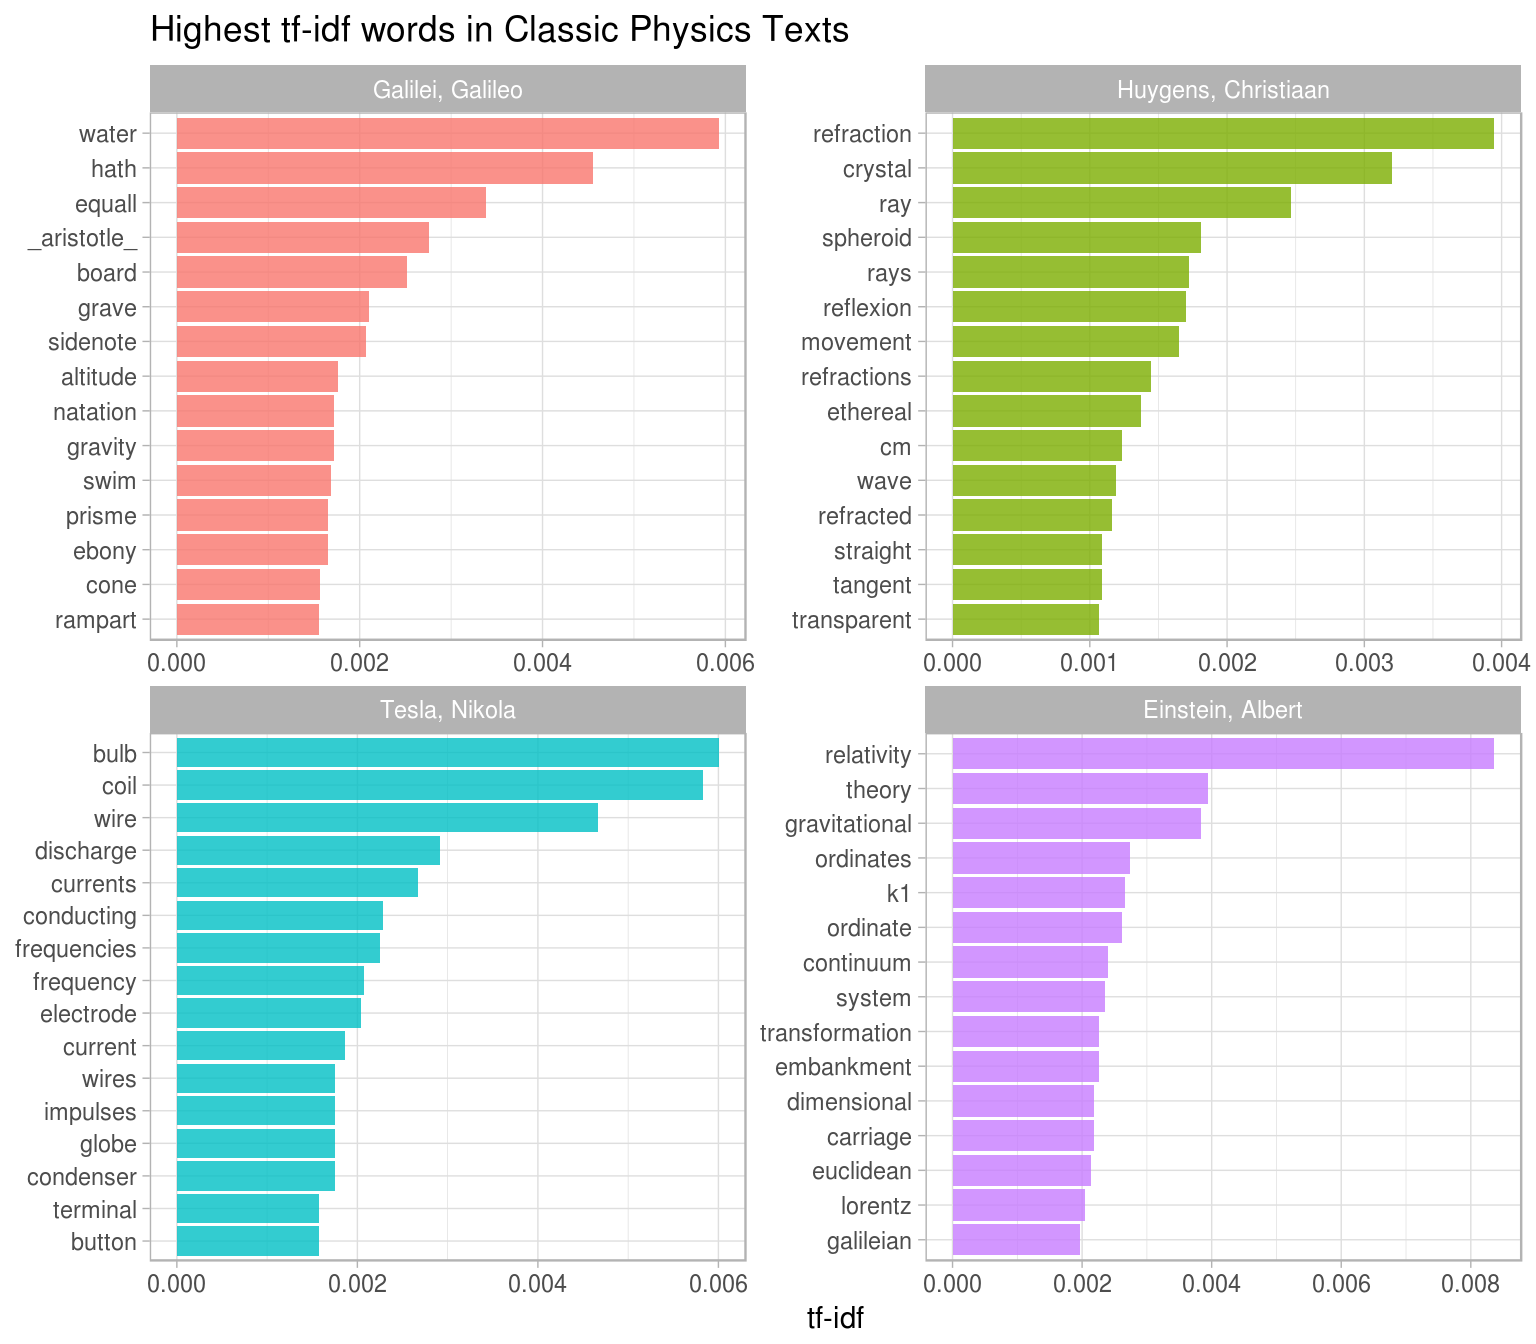
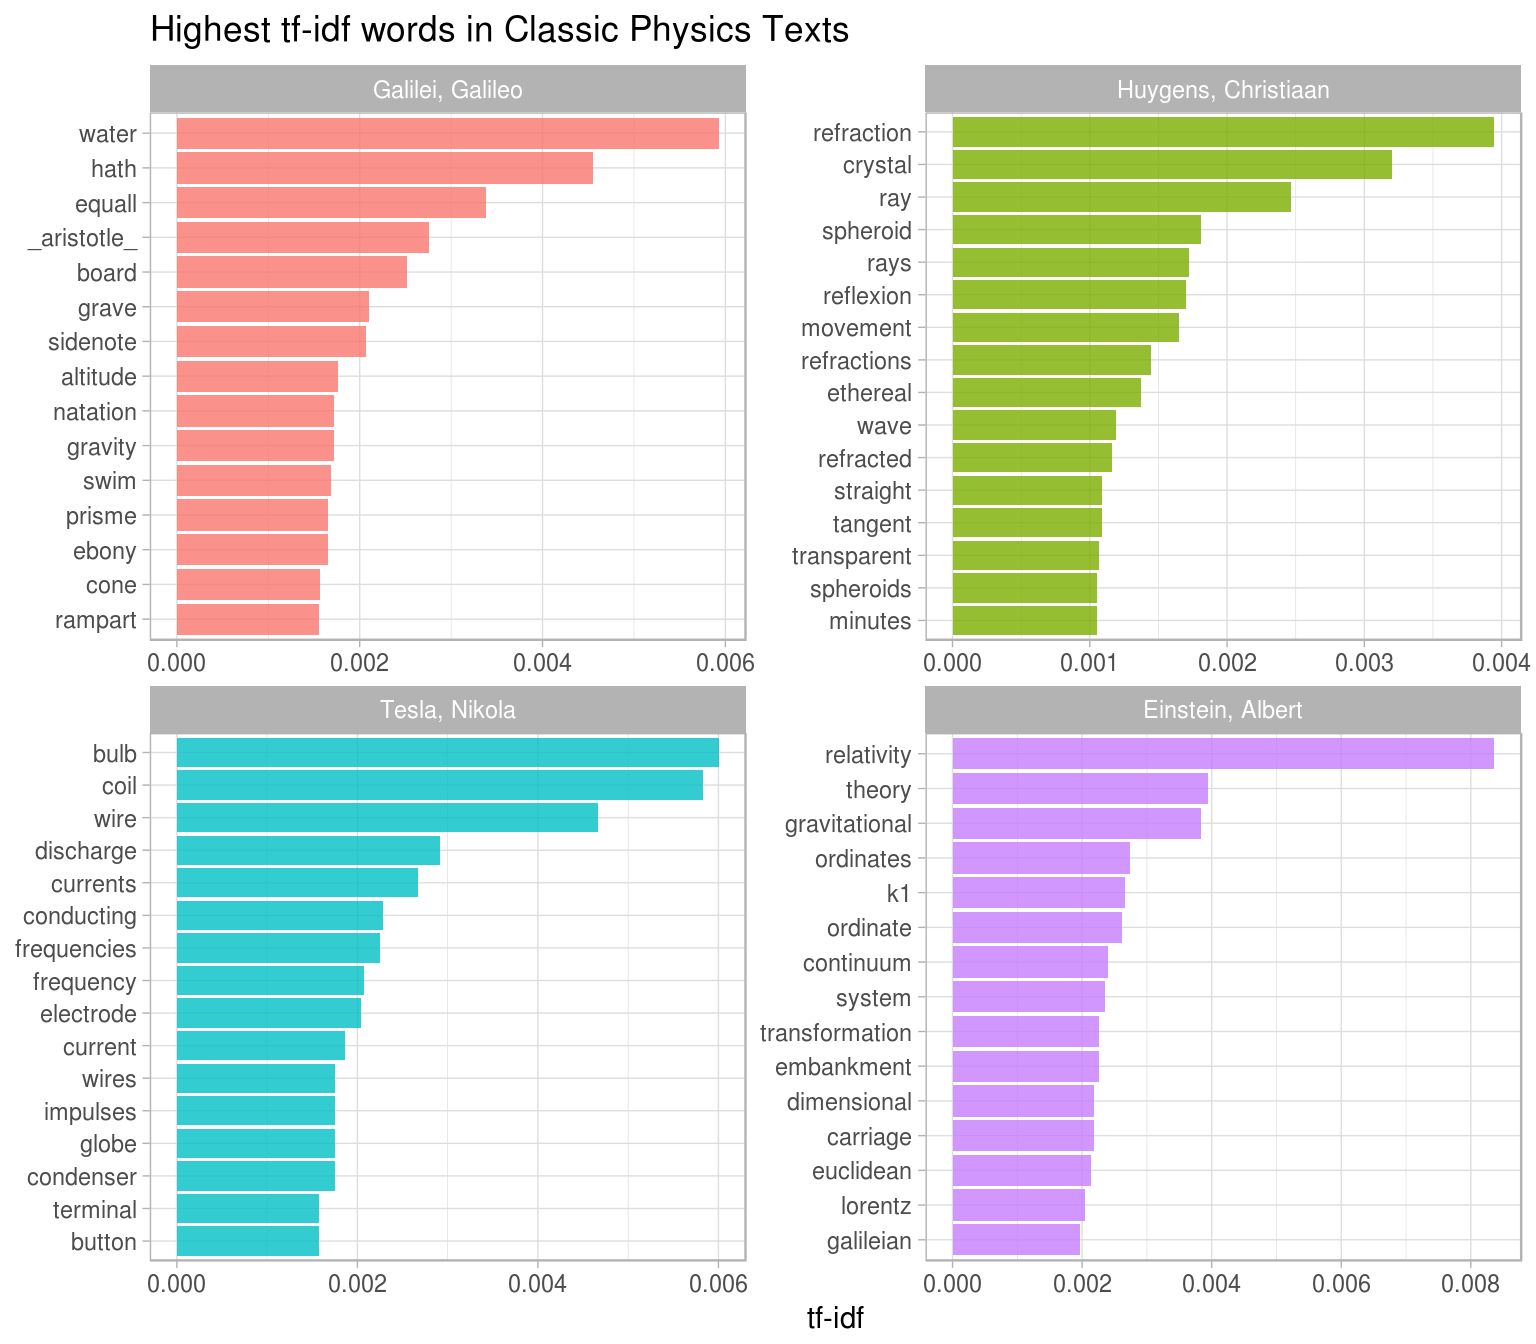
Updating book (132)

Changed region(s): [[0.625, 0.125, 0.9062, 0.4688], [0.5, 0.0938, 0.5938, 0.4688]]

diff --git a/tfidf.html b/tfidf.html
@@ -25,7 +25,7 @@
 
 <meta name="author" content="Julia Silge and David Robinson">
 
-<meta name="date" content="2016-10-30">
+<meta name="date" content="2016-10-31">
 
 <script type="text/x-mathjax-config">
 MathJax.Hub.Config({
@@ -373,26 +373,27 @@ plot_physics &lt;-<span class="st"> </span>physics_words %&gt;%
 <span class="st">  </span><span class="kw">coord_flip</span>()</code></pre></div>
 <p><img src="04-tf-idf_files/figure-html/physics_separate-1.png" width="768" /></p>
 <p>Very interesting indeed. One thing we see here is “gif” in the Einstein text?!</p>
-<div class="sourceCode"><pre class="sourceCode r"><code class="sourceCode r"><span class="kw">grep</span>(<span class="st">&quot;gif&quot;</span>, physics$text, <span class="dt">value =</span> <span class="ot">TRUE</span>)[<span class="dv">1</span>:<span class="dv">10</span>]</code></pre></div>
-<pre><code>##  [1] &quot;                       Fig. 01: file fig01.gif&quot;
-##  [2] &quot;                         eq. 1: file eq01.gif&quot; 
-##  [3] &quot;                         eq. 2: file eq02.gif&quot; 
-##  [4] &quot;                         eq. 3: file eq03.gif&quot; 
-##  [5] &quot;                         eq. 4: file eq04.gif&quot; 
-##  [6] &quot;                       eq. 05a: file eq05a.gif&quot;
-##  [7] &quot;                       eq. 05b: file eq05b.gif&quot;
-##  [8] &quot;                        eq. 07: file eq07.gif&quot; 
-##  [9] &quot;                        eq. 08: file eq08.gif&quot; 
-## [10] &quot;                        eq. 09: file eq09.gif&quot;</code></pre>
-<p>Some cleaning up of the text might be in order. The same thing is true for “eq”, obviously here. “K1” is the name of a coordinate system for Einstein:</p>
+<div class="sourceCode"><pre class="sourceCode r"><code class="sourceCode r"><span class="kw">grep</span>(<span class="st">&quot;eq</span><span class="ch">\\</span><span class="st">.&quot;</span>, physics$text, <span class="dt">value =</span> <span class="ot">TRUE</span>)[<span class="dv">1</span>:<span class="dv">10</span>]</code></pre></div>
+<pre><code>##  [1] &quot;                         eq. 1: file eq01.gif&quot;                  
+##  [2] &quot;                         eq. 2: file eq02.gif&quot;                  
+##  [3] &quot;                         eq. 3: file eq03.gif&quot;                  
+##  [4] &quot;                         eq. 4: file eq04.gif&quot;                  
+##  [5] &quot;                       eq. 05a: file eq05a.gif&quot;                 
+##  [6] &quot;                       eq. 05b: file eq05b.gif&quot;                 
+##  [7] &quot;the distance between the points being eq. 06 .&quot;                 
+##  [8] &quot;direction of its length with a velocity v is eq. 06 of a metre.&quot;
+##  [9] &quot;velocity v=c we should have eq. 06a ,&quot;                          
+## [10] &quot;the rod as judged from K1 would have been eq. 06 ;&quot;</code></pre>
+<p>Some cleaning up of the text might be in order. “K1” is the name of a coordinate system for Einstein:</p>
 <div class="sourceCode"><pre class="sourceCode r"><code class="sourceCode r"><span class="kw">grep</span>(<span class="st">&quot;K1&quot;</span>, physics$text, <span class="dt">value =</span> <span class="ot">TRUE</span>)[<span class="dv">1</span>]</code></pre></div>
 <pre><code>## [1] &quot;to a second co-ordinate system K1 provided that the latter is&quot;</code></pre>
-<p>Also notice that in this line we have “co-ordinate”, which explains why there are separate “co” and “ordinate” items in the high tf-idf words for the Einstein text. “AB”, “RC”, and so forth are names of rays, circles, angles, and so forth for Huygens.</p>
+<p>Maybe it makes sense to keep this one. Also notice that in this line we have “co-ordinate”, which explains why there are separate “co” and “ordinate” items in the high tf-idf words for the Einstein text.</p>
+<p>“AB”, “RC”, and so forth are names of rays, circles, angles, and so forth for Huygens.</p>
 <div class="sourceCode"><pre class="sourceCode r"><code class="sourceCode r"><span class="kw">grep</span>(<span class="st">&quot;AK&quot;</span>, physics$text, <span class="dt">value =</span> <span class="ot">TRUE</span>)[<span class="dv">1</span>]</code></pre></div>
 <pre><code>## [1] &quot;Now let us assume that the ray has come from A to C along AK, KC; the&quot;</code></pre>
 <p>Let’s remove some of these less meaningful words to make a better, more meaningful plot. Notice that we make a custom list of stop words and use <code>anti_join</code> to remove them.</p>
-<div class="sourceCode"><pre class="sourceCode r"><code class="sourceCode r">mystopwords &lt;-<span class="st"> </span><span class="kw">data_frame</span>(<span class="dt">word =</span> <span class="kw">c</span>(<span class="st">&quot;gif&quot;</span>, <span class="st">&quot;eq&quot;</span>, <span class="st">&quot;co&quot;</span>, <span class="st">&quot;rc&quot;</span>, <span class="st">&quot;ac&quot;</span>, <span class="st">&quot;ak&quot;</span>, <span class="st">&quot;bn&quot;</span>, 
-                                   <span class="st">&quot;fig&quot;</span>, <span class="st">&quot;file&quot;</span>, <span class="st">&quot;cg&quot;</span>, <span class="st">&quot;cb&quot;</span>))
+<div class="sourceCode"><pre class="sourceCode r"><code class="sourceCode r">mystopwords &lt;-<span class="st"> </span><span class="kw">data_frame</span>(<span class="dt">word =</span> <span class="kw">c</span>(<span class="st">&quot;eq&quot;</span>, <span class="st">&quot;co&quot;</span>, <span class="st">&quot;rc&quot;</span>, <span class="st">&quot;ac&quot;</span>, <span class="st">&quot;ak&quot;</span>, <span class="st">&quot;bn&quot;</span>, 
+                                   <span class="st">&quot;fig&quot;</span>, <span class="st">&quot;file&quot;</span>, <span class="st">&quot;cg&quot;</span>, <span class="st">&quot;cb&quot;</span>, <span class="st">&quot;cm&quot;</span>))
 physics_words &lt;-<span class="st"> </span><span class="kw">anti_join</span>(physics_words, mystopwords, <span class="dt">by =</span> <span class="st">&quot;word&quot;</span>)
 plot_physics &lt;-<span class="st"> </span>physics_words %&gt;%
 <span class="st">  </span><span class="kw">arrange</span>(<span class="kw">desc</span>(tf_idf)) %&gt;%

diff --git a/index.html b/index.html
@@ -25,7 +25,7 @@
 
 <meta name="author" content="Julia Silge and David Robinson">
 
-<meta name="date" content="2016-10-30">
+<meta name="date" content="2016-10-31">
 
 <script type="text/x-mathjax-config">
 MathJax.Hub.Config({
@@ -202,7 +202,7 @@ code > span.in { color: #60a0b0; font-weight: bold; font-style: italic; } /* Inf
 <div id="header">
 <h1 class="title">Tidy Text Mining with R</h1>
 <h4 class="author"><em>Julia Silge and David Robinson</em></h4>
-<h4 class="date"><em>2016-10-30</em></h4>
+<h4 class="date"><em>2016-10-31</em></h4>
 </div>
 <div id="welcome-to-tidy-text-mining-with-r" class="section level1 unnumbered">
 <h1>Welcome to Tidy Text Mining with R</h1>

diff --git a/dtm.html b/dtm.html
@@ -25,7 +25,7 @@
 
 <meta name="author" content="Julia Silge and David Robinson">
 
-<meta name="date" content="2016-10-30">
+<meta name="date" content="2016-10-31">
 
 <script type="text/x-mathjax-config">
 MathJax.Hub.Config({

diff --git a/intro.html b/intro.html
@@ -25,7 +25,7 @@
 
 <meta name="author" content="Julia Silge and David Robinson">
 
-<meta name="date" content="2016-10-30">
+<meta name="date" content="2016-10-31">
 
 <script type="text/x-mathjax-config">
 MathJax.Hub.Config({

diff --git a/nasa.html b/nasa.html
@@ -25,7 +25,7 @@
 
 <meta name="author" content="Julia Silge and David Robinson">
 
-<meta name="date" content="2016-10-30">
+<meta name="date" content="2016-10-31">
 
 <script type="text/x-mathjax-config">
 MathJax.Hub.Config({

diff --git a/ngrams.html b/ngrams.html
@@ -25,7 +25,7 @@
 
 <meta name="author" content="Julia Silge and David Robinson">
 
-<meta name="date" content="2016-10-30">
+<meta name="date" content="2016-10-31">
 
 <script type="text/x-mathjax-config">
 MathJax.Hub.Config({

diff --git a/references.html b/references.html
@@ -25,7 +25,7 @@
 
 <meta name="author" content="Julia Silge and David Robinson">
 
-<meta name="date" content="2016-10-30">
+<meta name="date" content="2016-10-31">
 
 <script type="text/x-mathjax-config">
 MathJax.Hub.Config({

diff --git a/sentiment.html b/sentiment.html
@@ -25,7 +25,7 @@
 
 <meta name="author" content="Julia Silge and David Robinson">
 
-<meta name="date" content="2016-10-30">
+<meta name="date" content="2016-10-31">
 
 <script type="text/x-mathjax-config">
 MathJax.Hub.Config({

diff --git a/tidytext.html b/tidytext.html
@@ -25,7 +25,7 @@
 
 <meta name="author" content="Julia Silge and David Robinson">
 
-<meta name="date" content="2016-10-30">
+<meta name="date" content="2016-10-31">
 
 <script type="text/x-mathjax-config">
 MathJax.Hub.Config({

diff --git a/topicmodeling.html b/topicmodeling.html
@@ -25,7 +25,7 @@
 
 <meta name="author" content="Julia Silge and David Robinson">
 
-<meta name="date" content="2016-10-30">
+<meta name="date" content="2016-10-31">
 
 <script type="text/x-mathjax-config">
 MathJax.Hub.Config({

diff --git a/twitter.html b/twitter.html
@@ -25,7 +25,7 @@
 
 <meta name="author" content="Julia Silge and David Robinson">
 
-<meta name="date" content="2016-10-30">
+<meta name="date" content="2016-10-31">
 
 <script type="text/x-mathjax-config">
 MathJax.Hub.Config({

diff --git a/usenet.html b/usenet.html
@@ -25,7 +25,7 @@
 
 <meta name="author" content="Julia Silge and David Robinson">
 
-<meta name="date" content="2016-10-30">
+<meta name="date" content="2016-10-31">
 
 <script type="text/x-mathjax-config">
 MathJax.Hub.Config({
